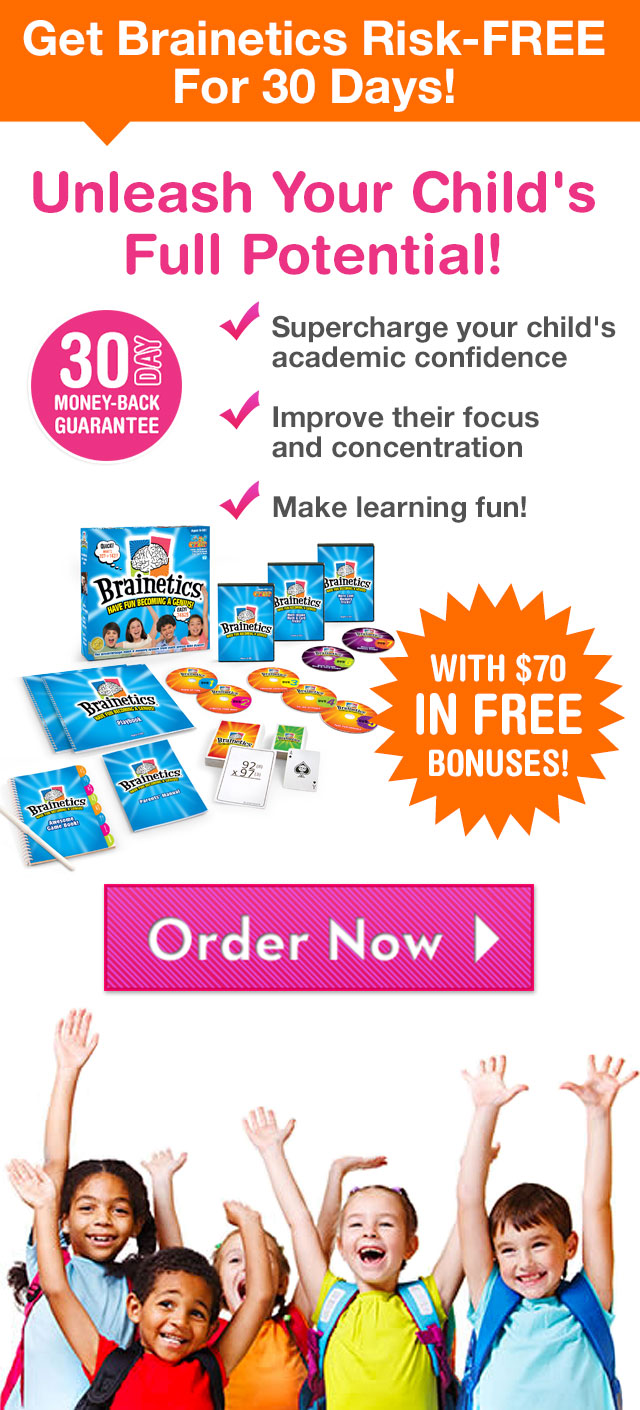
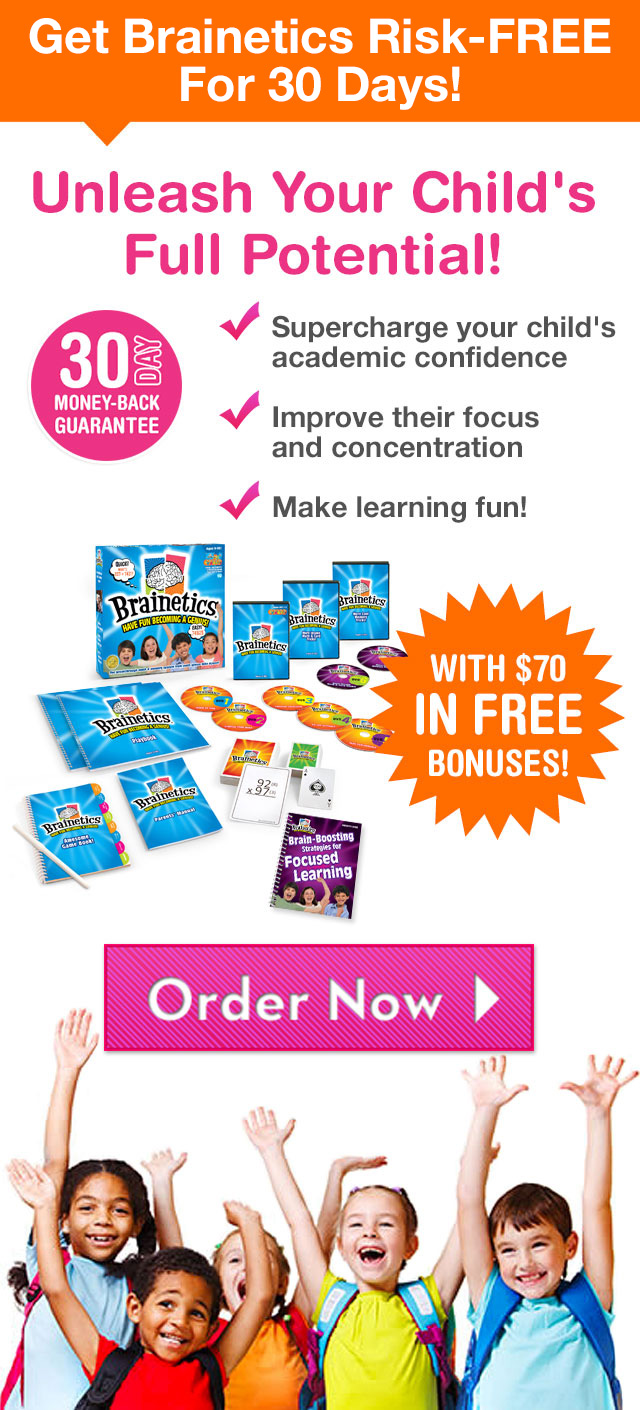
Front End Changes Brainetics.com\Website\CSWeb\D2\bottomcta.html Brainetics.com\Website\CSWeb\D2\index.aspx Brainetics.com\Website\CSWeb\D2\popups.html Brainetics.com\Website\CSWeb\D2\UserControls\ShippingForm.ascx Brainetics.com\Website\CSWeb\Content\images\d2\upsell_comparison.png Brainetics.com\W

Changed region(s): [[0.0, 0.3745, 0.8438, 0.7489], [0.0312, 0.0, 0.9688, 0.0936]]

diff --git a/Website/CSWeb/D2/popups.html b/Website/CSWeb/D2/popups.html
@@ -1,23 +1,18 @@
 <div style="display: none">
-<div id="included"><img src="../Content/images/b2/included.png" width="915" height="550" />
+<div id="included"><img src="../Content/images/d2/included.png" width="915" height="550" />
 <div class="includedtxt">
 <p class="f27 webfont1 black pad6 lh">Brainetics<sup style="font-size: 75%;">®</sup> Enhanced Package</p>
-<p class="pad12">Brainetics is made of fun games and creative exercises that improve concentration and focus by teaching kids how to process and retain information. Your Brainetics kit includes:</p>
+<p class="pad12">Brainetics is made of fun games and creative exercises that improve concentration and focus by teaching kids how to process and retain more information. Your Brainetics kit includes:</p>
 <ul class="pad20">
 <li><span>Brainetics® Complete DVD Set (Levels 1-5)</span></li>
-<li><span>86-Page Interactive Playbooks</span></li>
-<li><span>Flash and Play Cards</span></li>
-<li><span>Quick Start Guide</span></li>
+<li><span>DVD Levels 6 & 7: Memory and More Cool Math</span></li>
+<li><span>Two 86-Page Interactive Playbooks</span></li>
+<li><span>On The Move...10 Mind-Building Games for the Whole Family</span></li>
+<li><span>Brain Boosting Guide</span></li>
+<li><span>Online Support from Mike Byster</span></li>
+<li><span>Parents' Manual</span></li>
 </ul>
 
-<p class="f18 webfont1 pink pad6 lh">PLUS 4 Bonuses Worth Over $70</p>
-<ul class="pad20">
-<li><span>On the Move Brain Games</span></li>
-<li><span>Brain Boosting Guide</span></li>
-<li><span>Disc 6</span></li>
-<li><span>Disc 7</span></li>
-</ul>
-<p class="f18 webfont1 pink pad6 lh">PLUS our 30-Day Money Back Guarantee!</p>
 </div>
 </div>
 </div>
@@ -33,7 +28,7 @@
 
 <div style="display: none">
 <div id="comparison">
-<img src="/Content/images/upsell_comparison.png" width="887" height="656" />
+<img src="/Content/images/d2/upsell_comparison.png" width="887" height="656" />
 
 </div>
 </div>

diff --git a/Website/CSWeb/PS_D2/popups.html b/Website/CSWeb/PS_D2/popups.html
@@ -1,23 +1,18 @@
 <div style="display: none">
-<div id="included"><img src="../Content/images/b2/included.png" width="915" height="550" />
+<div id="included"><img src="../Content/images/d2/included.png" width="915" height="550" />
 <div class="includedtxt">
 <p class="f27 webfont1 black pad6 lh">Brainetics<sup style="font-size: 75%;">®</sup> Enhanced Package</p>
-<p class="pad12">Brainetics is made of fun games and creative exercises that improve concentration and focus by teaching kids how to process and retain information. Your Brainetics kit includes:</p>
+<p class="pad12">Brainetics is made of fun games and creative exercises that improve concentration and focus by teaching kids how to process and retain more information. Your Brainetics kit includes:</p>
 <ul class="pad20">
 <li><span>Brainetics® Complete DVD Set (Levels 1-5)</span></li>
-<li><span>86-Page Interactive Playbooks</span></li>
-<li><span>Flash and Play Cards</span></li>
-<li><span>Quick Start Guide</span></li>
+<li><span>DVD Levels 6 & 7: Memory and More Cool Math</span></li>
+<li><span>Two 86-Page Interactive Playbooks</span></li>
+<li><span>On The Move...10 Mind-Building Games for the Whole Family</span></li>
+<li><span>Brain Boosting Guide</span></li>
+<li><span>Online Support from Mike Byster</span></li>
+<li><span>Parents' Manual</span></li>
 </ul>
 
-<p class="f18 webfont1 pink pad6 lh">PLUS 4 Bonuses Worth Over $70</p>
-<ul class="pad20">
-<li><span>On the Move Brain Games</span></li>
-<li><span>Brain Boosting Guide</span></li>
-<li><span>Disc 6</span></li>
-<li><span>Disc 7</span></li>
-</ul>
-<p class="f18 webfont1 pink pad6 lh">PLUS our 30-Day Money Back Guarantee!</p>
 </div>
 </div>
 </div>
@@ -33,7 +28,7 @@
 
 <div style="display: none">
 <div id="comparison">
-<img src="/Content/images/upsell_comparison.png" width="887" height="656" />
+<img src="/Content/images/d2/upsell_comparison.png" width="887" height="656" />
 
 </div>
 </div>

diff --git a/Website/CSWeb/D2/footer.html b/Website/CSWeb/D2/footer.html
@@ -12,6 +12,6 @@
 </p>
 <p class="footerphone text-center">Phone Order: (800) 322-7165</p>
 <p>&copy; <script>document.write(new Date().getFullYear())</script> Brainetics, All Rights Reserved.</p>
-<p><strong>Offer Details:</strong> As part of our special TV Offer you can try Brainetics in the comfort of your home for only $14.95 plus $14.95 shipping and handling. If you decide to keep the system, simply do nothing and beginning in 30 days following the date of your purchase you will be charged 4 easy monthly payments of $49.95, plus tax. All orders are backed by our 30-Day Money-Back Guarantee!</p>
+<p><strong>Offer Details:</strong> As part of our special TV Offer you can try Brainetics in the comfort of your home for only $14.95 plus FREE shipping and handling. If you decide to keep the system, simply do nothing and beginning in 30 days following the date of your purchase you will be charged 4 easy monthly payments of $49.95, plus tax. All orders are backed by our 30-Day Money-Back Guarantee!</p>
 
 </div>

diff --git a/Website/CSWeb/PS_D2/footer.html b/Website/CSWeb/PS_D2/footer.html
@@ -12,6 +12,6 @@
 </p>
 <p class="footerphone text-center">Phone Order: (800) 322-7165</p>
 <p>&copy; <script>document.write(new Date().getFullYear())</script> Brainetics, All Rights Reserved.</p>
-<p><strong>Offer Details:</strong> As part of our special TV Offer you can try Brainetics in the comfort of your home for only $14.95 plus $14.95 shipping and handling. If you decide to keep the system, simply do nothing and beginning in 30 days following the date of your purchase you will be charged 4 easy monthly payments of $49.95, plus tax. All orders are backed by our 30-Day Money-Back Guarantee!</p>
+<p><strong>Offer Details:</strong> As part of our special TV Offer you can try Brainetics in the comfort of your home for only $14.95 plus FREE shipping and handling. If you decide to keep the system, simply do nothing and beginning in 30 days following the date of your purchase you will be charged 4 easy monthly payments of $49.95, plus tax. All orders are backed by our 30-Day Money-Back Guarantee!</p>
 
 </div>

diff --git a/Website/CSWeb/D2/bottomcta.html b/Website/CSWeb/D2/bottomcta.html
@@ -1,6 +1,6 @@
-<div class="bottomcta"><img src="../Content/images/b2/site_bottom.jpg" width="950" height="566" usemap="#Mapbottomcta" class="block" />
+<div class="bottomcta"><img src="../Content/images/d2/site_bottom.jpg" width="950" height="566" usemap="#Mapbottomcta" class="block" />
   <map name="Mapbottomcta">
-    <area shape="rect" coords="126,0,949,565" href="#tryitnow" class="try">
+    <area shape="rect" coords="126,1,949,566" href="#tryitnow" class="try">
     <area shape="rect" coords="0,0,125,158" href="#tryitnow" class="try">
     <area shape="rect" coords="1,159,125,268" href="#guarantee" class="guarantee">
     <area shape="rect" coords="2,269,125,565" href="#tryitnow" class="try">

diff --git a/Website/CSWeb/PS_D2/bottomcta.html b/Website/CSWeb/PS_D2/bottomcta.html
@@ -1,4 +1,4 @@
-<div class="bottomcta"><img src="../Content/images/b2/site_bottom.jpg" width="950" height="566" usemap="#Mapbottomcta" class="block" />
+<div class="bottomcta"><img src="../Content/images/d2/site_bottom.jpg" width="950" height="566" usemap="#Mapbottomcta" class="block" />
   <map name="Mapbottomcta">
     <area shape="rect" coords="126,0,949,565" href="#tryitnow" class="try">
     <area shape="rect" coords="0,0,125,158" href="#tryitnow" class="try">

diff --git a/Website/CSWeb/Mobile/bottomcta.html b/Website/CSWeb/Mobile/bottomcta.html
@@ -1,5 +1,5 @@
 <img src="<%= GetDynamicVersionData("ctaimage")%>" alt="Order Now" class="block" usemap="#Mapcta" />
   <map name="Mapcta">
-    <area shape="rect" coords="104,884,538,996" href="cart.aspx">
+    <area shape="rect" coords="102,942,536,1054" href="cart.aspx">
     <area shape="circle" coords="107,387,76" href="#mgb" class="mgb" alt="60 Day Money-Back Guarantee">
   </map>
